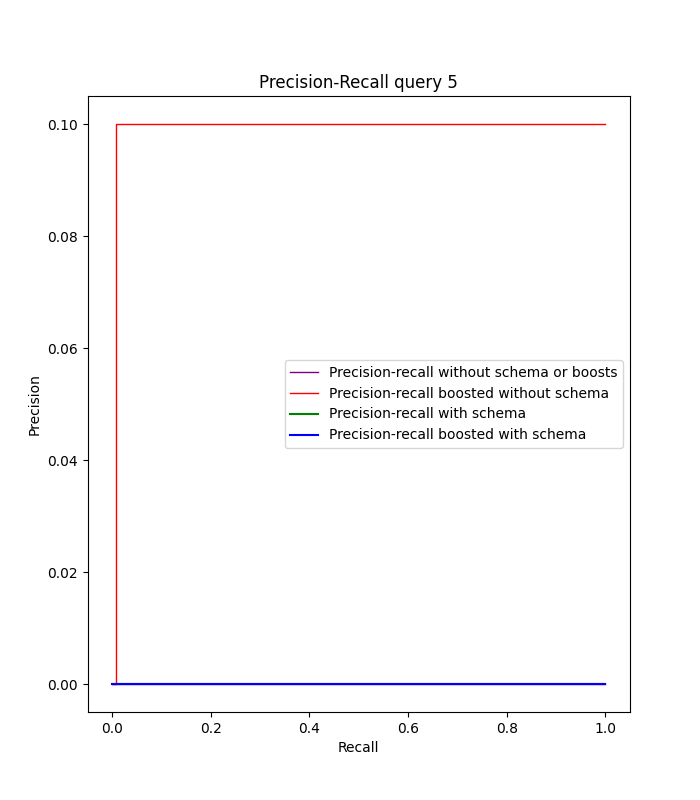
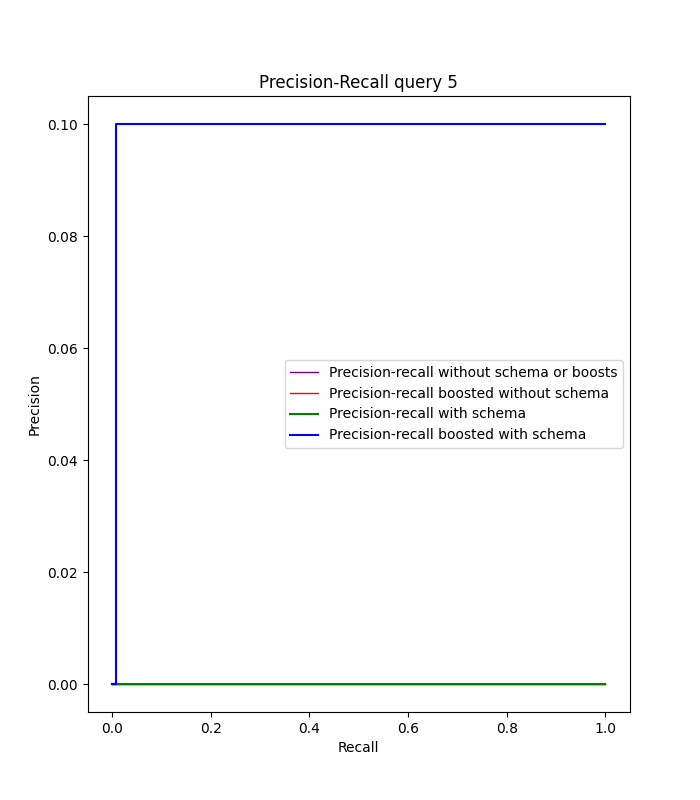
Evaluation

Changed region(s): [[0.18, 0.8438, 0.87, 0.875], [0.15, 0.1562, 0.18, 0.8438]]

diff --git a/evaluation/traditional/evaluation.py b/evaluation/traditional/evaluation.py
@@ -7,11 +7,11 @@ import pandas as pd
 import requests
 from sklearn.metrics import PrecisionRecallDisplay
 
-QRELS_FILE = 'q5_rels.txt' # 7 --> 5
-QUERY_URL_NO_SCHEMA = 'http://localhost:8983/solr/book_no_schema/query?q=written%20women~1&q.op=OR&defType=edismax&indent=true&qf=description%20review&wt=json' #written by or for women
-QUERY_URL_BOOST_NO_SCHEMA = 'http://localhost:8983/solr/book_no_schema/query?q=written%20women~1&q.op=OR&defType=edismax&indent=true&qf=description%5E10%20review&wt=json'
-QUERY_URL_SCHEMA = 'http://localhost:8983/solr/books_schema/query?q=written%20women~1&q.op=OR&defType=edismax&indent=true&qf=description%20review&wt=json' #written by or for women
-QUERY_URL_BOOST_SCHEMA = 'http://localhost:8983/solr/books_schema/query?q=written%20women~1&q.op=OR&defType=edismax&indent=true&qf=description%5E10%20review&wt=json'
+QRELS_FILE = 'q4_rels.txt' # 7 --> 5
+QUERY_URL_NO_SCHEMA = 'http://localhost:8983/solr/book_no_schema/query?q=nightwing%20OR%20batman&q.op=OR&defType=edismax&indent=true&qf=title%20description&wt=json' #nightwing
+QUERY_URL_BOOST_NO_SCHEMA = 'http://localhost:8983/solr/book_no_schema/query?q=nightwing%20OR%20batman&q.op=OR&defType=edismax&indent=true&qf=title%20description&bq=title:batman*&wt=json'
+QUERY_URL_SCHEMA = 'http://localhost:8983/solr/books_schema/query?q=nightwing%20OR%20batman&q.op=OR&defType=edismax&indent=true&qf=title%20description&wt=json' #nightwing
+QUERY_URL_BOOST_SCHEMA = 'http://localhost:8983/solr/books_schema/query?q=nightwing%20OR%20batman&q.op=OR&defType=edismax&indent=true&qf=title%20description&bq=title:batman*&wt=json'
 # Read qrels to extract relevant documents
 relevant = list(map(lambda el: el.strip(), open(QRELS_FILE).readlines()))
 
@@ -21,7 +21,7 @@ boostedResults = requests.get(QUERY_URL_BOOST_NO_SCHEMA).json()['response']['doc
 normalResultsSchema = requests.get(QUERY_URL_SCHEMA).json()['response']['docs']
 boostedResultsSchema = requests.get(QUERY_URL_BOOST_SCHEMA).json()['response']['docs']
 
-results = [normalResults,boostedResults, normalResultsSchema, boostedResultsSchema]
+results = [normalResults,boostedResultsSchema, normalResultsSchema, boostedResults]
 
 _, ax = plt.subplots(figsize=(7, 8))
 
@@ -91,13 +91,13 @@ for results, color in zip(results, colors):
     )
 
     if i == 0:
-        filename = 'results_normal_no_schema_q2.tex'
+        filename = 'results_normal_no_schema_q4.tex'
     elif i == 1:
-        filename = 'results_boosted_no_schema_q2.tex'
+        filename = 'results_boosted_no_schema_q4.tex'
     elif i==2:
-        filename = 'results_normal_schema_q2.tex'
+        filename = 'results_normal_schema_q4.tex'
     else:
-        filename = 'results_boosted_schema_q2.tex'
+        filename = 'results_boosted_schema_q4.tex'
 
     with open(filename, 'w') as tf:
         tf.write(df.to_latex())
@@ -158,6 +158,6 @@ handles, labels = disp.ax_.get_legend_handles_labels()
 
 # set the legend and the axes
 ax.legend(handles=handles, labels=labels, loc="best")
-ax.set_title("Precision-Recall query 5")
+ax.set_title("Precision-Recall query 4")
 
-plt.savefig('precision_recall_query_5.png')
+plt.savefig('precision_recall_query_4.png')

diff --git a/evaluation/search_book_profile/evaluation.py b/evaluation/search_book_profile/evaluation.py
@@ -8,10 +8,10 @@ import requests
 from sklearn.metrics import PrecisionRecallDisplay
 
 QRELS_FILE = 'q1_rels.txt' # 1
-QUERY_URL_NO_SCHEMA = 'http://localhost:8983/solr/book_no_schema/query?q=(mystery%20OR%20thriller)%20AND%20(surpri*)%20AND%20(-rape%20AND%20-gore%20AND%20-sexual~1)&q.op=OR&defType=edismax&indent=true&qf=genre%20mood%20sensitivity%20buzzwords&wt=json' 
-QUERY_URL_BOOST_NO_SCHEMA = 'http://localhost:8983/solr/book_no_schema/query?q=(mystery%20OR%20thriller)%20AND%20(surpri*)%20AND%20(-rape%20AND%20-gore%20AND%20-sexual~1)&q.op=OR&defType=edismax&indent=true&qf=genre%5E10%20mood%20sensitivity%5E20%20buzzwords&wt=json' 
-QUERY_URL_SCHEMA = 'http://localhost:8983/solr/books_schema/query?q=(mystery%20OR%20thriller)%20AND%20(surpri*)%20AND%20(-rape%20AND%20-gore%20AND%20-sexual~1)&q.op=OR&defType=edismax&indent=true&qf=genre%20mood%20sensitivity%20buzzwords&wt=json' 
-QUERY_URL_BOOST_SCHEMA = 'http://localhost:8983/solr/books_schema/query?q=(mystery%20OR%20thriller)%20AND%20(surpri*)%20AND%20(-rape%20AND%20-gore%20AND%20-sexual~1)&q.op=OR&defType=edismax&indent=true&qf=genre%5E10%20mood%20sensitivity%5E20%20buzzwords&wt=json' 
+QUERY_URL_NO_SCHEMA = 'http://localhost:8983/solr/book_no_schema/query?q=(mystery%5E10%20OR%20thriller)%20AND%20(surpri*)%20AND%20(-rape%20AND%20-gore%20AND%20-sexual*)&q.op=OR&defType=edismax&indent=true&qf=genre%20mood%20sensitivity%20buzzwords&wt=json' 
+QUERY_URL_BOOST_NO_SCHEMA = 'http://localhost:8983/solr/book_no_schema/query?q=(mystery%5E10%20OR%20thriller)%20AND%20(surpri*)%20AND%20(-rape%20AND%20-gore%20AND%20-sexual*)&q.op=OR&defType=edismax&indent=true&qf=genre%5E10%20mood%20sensitivity%5E20%20buzzwords&wt=json' 
+QUERY_URL_SCHEMA = 'http://localhost:8983/solr/books_schema/query?q=(mystery%5E10%20OR%20thriller)%20AND%20(surpri*)%20AND%20(-rape%20AND%20-gore%20AND%20-sexual*)&q.op=OR&defType=edismax&indent=true&qf=genre%20mood%20sensitivity%20buzzwords&wt=json' 
+QUERY_URL_BOOST_SCHEMA = 'http://localhost:8983/solr/books_schema/query?q=(mystery%5E10%20OR%20thriller)%20AND%20(surpri*)%20AND%20(-rape%20AND%20-gore%20AND%20-sexual*)&q.op=OR&defType=edismax&indent=true&qf=genre%5E10%20mood%20sensitivity%5E20%20buzzwords&wt=json' 
 
 # Read qrels to extract relevant documents
 relevant = list(map(lambda el: el.strip(), open(QRELS_FILE).readlines()))

diff --git a/evaluation/search_buzzwords/evaluation.py b/evaluation/search_buzzwords/evaluation.py
@@ -7,11 +7,11 @@ import pandas as pd
 import requests
 from sklearn.metrics import PrecisionRecallDisplay
 
-QRELS_FILE = 'q3_rels.txt' # 3 - 2 in file
-QUERY_URL_NO_SCHEMA = 'http://localhost:8983/solr/book_no_schema/query?q=fast%20OR%20(capti*%20AND%20obs*)&q.op=OR&defType=edismax&indent=true&qf=pacing%20buzzwords&wt=json'
-QUERY_URL_BOOST_NO_SCHEMA = 'http://localhost:8983/solr/book_no_schema/query?q=fast%20OR%20(capti*%20AND%20obs*)&q.op=OR&defType=edismax&indent=true&qf=pacing%5E5%20buzzwords&wt=json'
-QUERY_URL_SCHEMA = 'http://localhost:8983/solr/books_schema/query?q=fast%20OR%20(capti*%20AND%20obs*)&q.op=OR&defType=edismax&indent=true&qf=pacing%20buzzwords&wt=json'
-QUERY_URL_BOOST_SCHEMA = 'http://localhost:8983/solr/books_schema/query?q=fast%20OR%20(capti*%20AND%20obs*)&q.op=OR&defType=edismax&indent=true&qf=pacing%5E5%20buzzwords&wt=json'
+QRELS_FILE = 'q2_rels.txt' # 3 - 2 in file
+QUERY_URL_NO_SCHEMA = 'http://localhost:8983/solr/book_no_schema/query?q=fast%20OR%20(surpris*%20AND%20twist)&q.op=OR&defType=edismax&indent=true&qf=pacing%20buzzwords&wt=json' 
+QUERY_URL_BOOST_NO_SCHEMA = 'http://localhost:8983/solr/book_no_schema/query?q=fast%20OR%20(surpris*%20AND%20twist)&q.op=OR&defType=edismax&indent=true&qf=pacing%20buzzwords%5E5&wt=json'
+QUERY_URL_SCHEMA = 'http://localhost:8983/solr/books_schema/query?q=fast%20OR%20(surpris*%20AND%20twist)&q.op=OR&defType=edismax&indent=true&qf=pacing%20buzzwords&wt=json' 
+QUERY_URL_BOOST_SCHEMA = 'http://localhost:8983/solr/books_schema/query?q=fast%20OR%20(surpris*%20AND%20twist)&q.op=OR&defType=edismax&indent=true&qf=pacing%20buzzwords%5E5&wt=json'
 # Read qrels to extract relevant documents
 relevant = list(map(lambda el: el.strip(), open(QRELS_FILE).readlines()))
 
@@ -158,6 +158,6 @@ handles, labels = disp.ax_.get_legend_handles_labels()
 
 # set the legend and the axes
 ax.legend(handles=handles, labels=labels, loc="best")
-ax.set_title("Precision-Recall query 3")
+ax.set_title("Precision-Recall query 2")
 
-plt.savefig('precision_recall_query_3.png')
+plt.savefig('precision_recall_query_2.png')

diff --git a/evaluation/search_buzzwords/results_normal_no_schema_q3.tex b/evaluation/search_buzzwords/results_normal_no_schema_q3.tex
@@ -3,7 +3,7 @@
 {} &                       0 &      1 \\
 \midrule
 0 &                  Metric &  Value \\
-1 &       Average Precision &    1.0 \\
-2 &  Precision at 10 (P@10) &    1.0 \\
+1 &       Average Precision &      0 \\
+2 &  Precision at 10 (P@10) &    0.0 \\
 \bottomrule
 \end{tabular}

diff --git a/evaluation/traditional/results_boosted_no_schema_q4.tex b/evaluation/traditional/results_boosted_no_schema_q4.tex
@@ -3,7 +3,7 @@
 {} &                       0 &      1 \\
 \midrule
 0 &                  Metric &  Value \\
-1 &       Average Precision &    1.0 \\
-2 &  Precision at 10 (P@10) &    1.0 \\
+1 &       Average Precision &    0.6 \\
+2 &  Precision at 10 (P@10) &    0.2 \\
 \bottomrule
 \end{tabular}

diff --git a/evaluation/traditional/results_boosted_no_schema_q5.tex b/evaluation/traditional/results_boosted_no_schema_q5.tex
@@ -3,7 +3,7 @@
 {} &                       0 &      1 \\
 \midrule
 0 &                  Metric &  Value \\
-1 &       Average Precision &    1.0 \\
-2 &  Precision at 10 (P@10) &    1.0 \\
+1 &       Average Precision &      0 \\
+2 &  Precision at 10 (P@10) &    0.0 \\
 \bottomrule
 \end{tabular}

diff --git a/evaluation/traditional/results_boosted_schema_q5.tex b/evaluation/traditional/results_boosted_schema_q5.tex
@@ -3,7 +3,7 @@
 {} &                       0 &      1 \\
 \midrule
 0 &                  Metric &  Value \\
-1 &       Average Precision &    1.0 \\
-2 &  Precision at 10 (P@10) &    1.0 \\
+1 &       Average Precision &    0.1 \\
+2 &  Precision at 10 (P@10) &    0.1 \\
 \bottomrule
 \end{tabular}

diff --git a/evaluation/traditional/results_normal_no_schema_q4.tex b/evaluation/traditional/results_normal_no_schema_q4.tex
@@ -3,7 +3,7 @@
 {} &                       0 &      1 \\
 \midrule
 0 &                  Metric &  Value \\
-1 &       Average Precision &    1.0 \\
-2 &  Precision at 10 (P@10) &    1.0 \\
+1 &       Average Precision &      0 \\
+2 &  Precision at 10 (P@10) &    0.0 \\
 \bottomrule
 \end{tabular}

diff --git a/evaluation/traditional/results_normal_no_schema_q5.tex b/evaluation/traditional/results_normal_no_schema_q5.tex
@@ -3,7 +3,7 @@
 {} &                       0 &      1 \\
 \midrule
 0 &                  Metric &  Value \\
-1 &       Average Precision &    1.0 \\
-2 &  Precision at 10 (P@10) &    1.0 \\
+1 &       Average Precision &      0 \\
+2 &  Precision at 10 (P@10) &    0.0 \\
 \bottomrule
 \end{tabular}

diff --git a/evaluation/traditional/results_normal_schema_q5.tex b/evaluation/traditional/results_normal_schema_q5.tex
@@ -3,7 +3,7 @@
 {} &                       0 &      1 \\
 \midrule
 0 &                  Metric &  Value \\
-1 &       Average Precision &    1.0 \\
-2 &  Precision at 10 (P@10) &    1.0 \\
+1 &       Average Precision &      0 \\
+2 &  Precision at 10 (P@10) &    0.0 \\
 \bottomrule
 \end{tabular}

diff --git a/evaluation/search_book_profile/results_normal_no_schema_q1.tex b/evaluation/search_book_profile/results_normal_no_schema_q1.tex
@@ -3,7 +3,7 @@
 {} &                       0 &         1 \\
 \midrule
 0 &                  Metric &     Value \\
-1 &       Average Precision &  0.277778 \\
+1 &       Average Precision &  0.516667 \\
 2 &  Precision at 10 (P@10) &       0.3 \\
 \bottomrule
 \end{tabular}

diff --git a/evaluation/traditional/results_normal_schema_q4.tex b/evaluation/traditional/results_normal_schema_q4.tex
@@ -4,6 +4,6 @@
 \midrule
 0 &                  Metric &  Value \\
 1 &       Average Precision &    1.0 \\
-2 &  Precision at 10 (P@10) &    1.0 \\
+2 &  Precision at 10 (P@10) &    0.1 \\
 \bottomrule
 \end{tabular}
